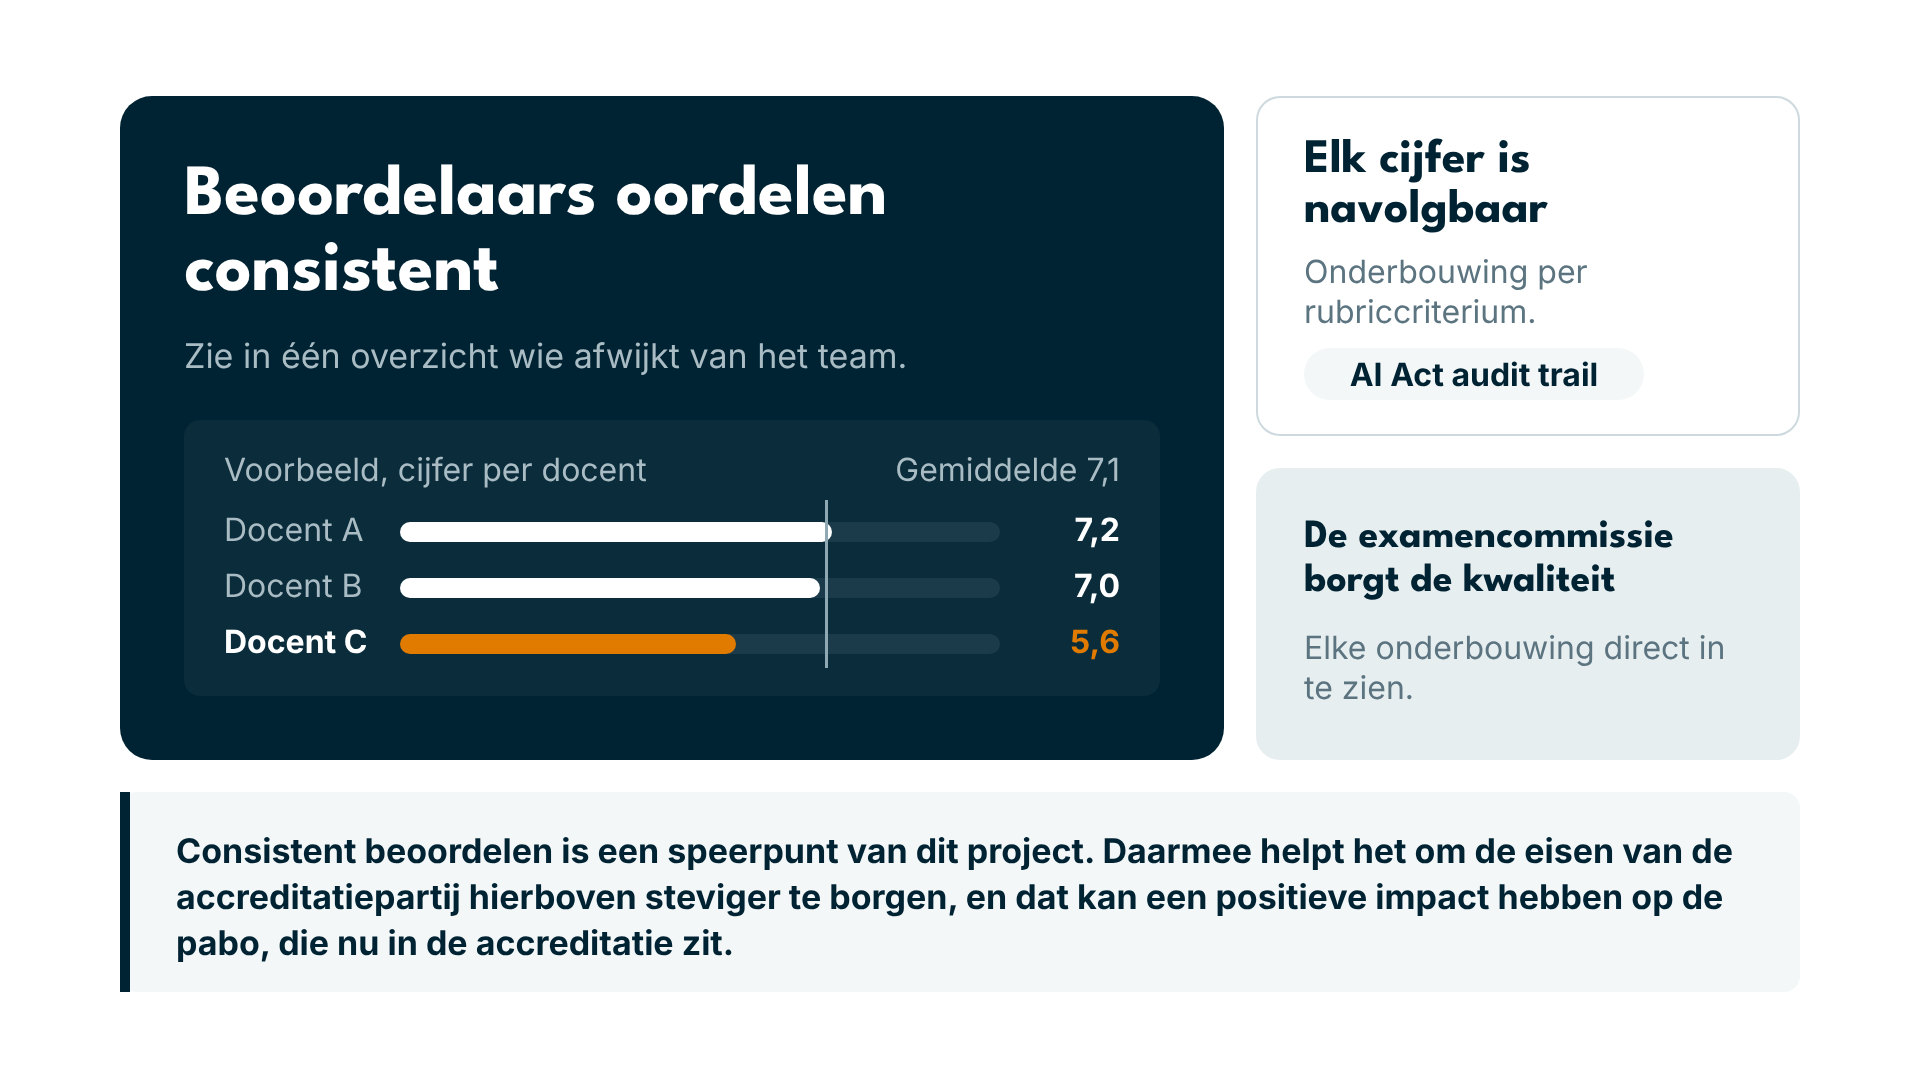
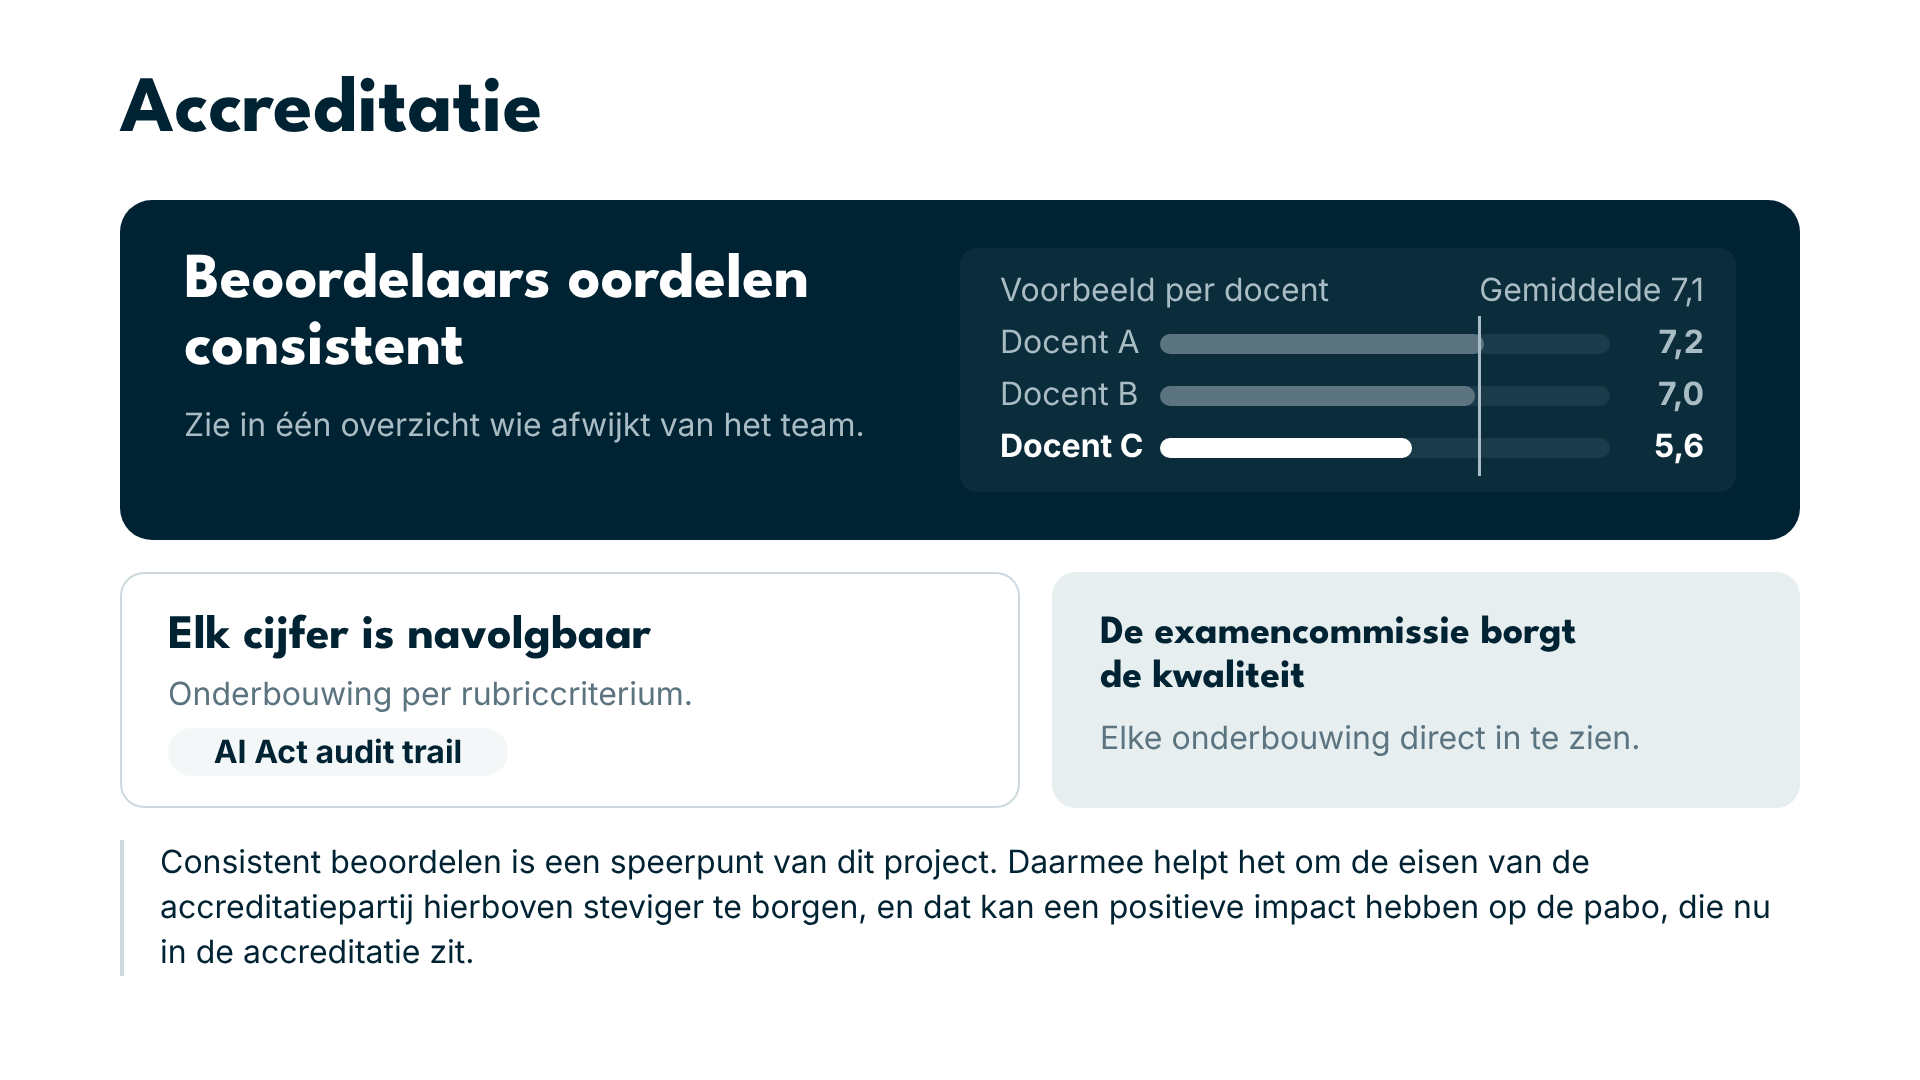
Slide accreditatie: titel, consistentie bovenaan, neutrale kleuren
Claude-Session: https://claude.ai/code/session_011t24oNqE5E2i7wh7JuX2xs

diff --git a/Design/Concepts/kwaliteit-cards/slide/preview/consistent-beoordelen.html b/Design/Concepts/kwaliteit-cards/slide/preview/consistent-beoordelen.html
@@ -1,4 +1,3 @@
-<!DOCTYPE html><html lang="nl"><head><meta charset="utf-8"><link href="https://fonts.googleapis.com/css2?family=League+Spartan:wght@400;600;700;800&family=Inter:wght@400;500;600;700&display=swap" rel="stylesheet"><style>*{margin:0;padding:0;box-sizing:border-box}html,body{background:#fff}.slide{position:relative;width:1920px;height:1080px;overflow:hidden;background:#fff}</style></head><body><div class="slide"><div style="position:absolute;left:120.0px;top:96.0px;width:1104.0px;height:664.0px;background:#002333;border-radius:32.0px"></div><div style="position:absolute;left:184.0px;top:160.0px;width:976.0px;height:160.0px;font-family:'League Spartan',sans-serif;font-size:72px;font-weight:700;color:#FFFFFF;text-align:left;line-height:1.05;white-space:pre-line">Beoordelaars oordelen
-consistent</div><div style="position:absolute;left:184.0px;top:336.0px;width:976.0px;height:44.0px;font-family:'Inter',sans-serif;font-size:34px;font-weight:400;color:#A9BCC4;text-align:left;line-height:1.15;white-space:pre-line">Zie in één overzicht wie afwijkt van het team.</div><div style="position:absolute;left:184.0px;top:420.0px;width:976.0px;height:276.0px;background:#0A2C3B;border-radius:16.0px"></div><div style="position:absolute;left:224.0px;top:452.0px;width:560.0px;height:40.0px;font-family:'Inter',sans-serif;font-size:32px;font-weight:400;color:#A9BCC4;text-align:left;line-height:1.15;white-space:pre-line">Voorbeeld, cijfer per docent</div><div style="position:absolute;left:840.0px;top:452.0px;width:280.0px;height:40.0px;font-family:'Inter',sans-serif;font-size:32px;font-weight:400;color:#A9BCC4;text-align:right;line-height:1.15;white-space:pre-line">Gemiddelde 7,1</div><div style="position:absolute;left:224.0px;top:512.0px;width:160.0px;height:40.0px;font-family:'Inter',sans-serif;font-size:32px;font-weight:400;color:#A9BCC4;text-align:left;line-height:1.15;white-space:pre-line">Docent A</div><div style="position:absolute;left:400.0px;top:522.0px;width:600.0px;height:20.0px;background:#1B3B4A;border-radius:10.0px"></div><div style="position:absolute;left:400.0px;top:522.0px;width:432.0px;height:20.0px;background:#FFFFFF;border-radius:10.0px"></div><div style="position:absolute;left:1030.0px;top:512.0px;width:90.0px;height:40.0px;font-family:'Inter',sans-serif;font-size:32px;font-weight:700;color:#FFFFFF;text-align:right;line-height:1.15;white-space:pre-line">7,2</div><div style="position:absolute;left:224.0px;top:568.0px;width:160.0px;height:40.0px;font-family:'Inter',sans-serif;font-size:32px;font-weight:400;color:#A9BCC4;text-align:left;line-height:1.15;white-space:pre-line">Docent B</div><div style="position:absolute;left:400.0px;top:578.0px;width:600.0px;height:20.0px;background:#1B3B4A;border-radius:10.0px"></div><div style="position:absolute;left:400.0px;top:578.0px;width:420.0px;height:20.0px;background:#FFFFFF;border-radius:10.0px"></div><div style="position:absolute;left:1030.0px;top:568.0px;width:90.0px;height:40.0px;font-family:'Inter',sans-serif;font-size:32px;font-weight:700;color:#FFFFFF;text-align:right;line-height:1.15;white-space:pre-line">7,0</div><div style="position:absolute;left:224.0px;top:624.0px;width:160.0px;height:40.0px;font-family:'Inter',sans-serif;font-size:32px;font-weight:700;color:#FFFFFF;text-align:left;line-height:1.15;white-space:pre-line">Docent C</div><div style="position:absolute;left:400.0px;top:634.0px;width:600.0px;height:20.0px;background:#1B3B4A;border-radius:10.0px"></div><div style="position:absolute;left:400.0px;top:634.0px;width:336.0px;height:20.0px;background:#E07B00;border-radius:10.0px"></div><div style="position:absolute;left:1030.0px;top:624.0px;width:90.0px;height:40.0px;font-family:'Inter',sans-serif;font-size:32px;font-weight:700;color:#E07B00;text-align:right;line-height:1.15;white-space:pre-line">5,6</div><div style="position:absolute;left:824.5px;top:500.0px;width:3.0px;height:168.0px;background:#8FA9B4;border-radius:0.0px"></div><div style="position:absolute;left:1256.0px;top:96.0px;width:544.0px;height:340.0px;background:#CDD9DE;border-radius:24.0px"></div><div style="position:absolute;left:1258.0px;top:98.0px;width:540.0px;height:336.0px;background:#FFFFFF;border-radius:22.0px"></div><div style="position:absolute;left:1304.0px;top:136.0px;width:448.0px;height:100.0px;font-family:'League Spartan',sans-serif;font-size:48px;font-weight:700;color:#002333;text-align:left;line-height:1.05;white-space:pre-line">Elk cijfer is
-navolgbaar</div><div style="position:absolute;left:1304.0px;top:252.0px;width:448.0px;height:80.0px;font-family:'Inter',sans-serif;font-size:32px;font-weight:400;color:#5B7480;text-align:left;line-height:1.25;white-space:pre-line">Onderbouwing per rubriccriterium.</div><div style="position:absolute;left:1304.0px;top:348.0px;width:340.0px;height:52.0px;background:#F3F7F8;border-radius:26.0px"></div><div style="position:absolute;left:1304.0px;top:357.0px;width:340.0px;height:36.0px;font-family:'Inter',sans-serif;font-size:32px;font-weight:700;color:#002333;text-align:center;line-height:1.15;white-space:pre-line">AI Act audit trail</div><div style="position:absolute;left:1256.0px;top:468.0px;width:544.0px;height:292.0px;background:#E7EEF0;border-radius:24.0px"></div><div style="position:absolute;left:1304.0px;top:516.0px;width:448.0px;height:92.0px;font-family:'League Spartan',sans-serif;font-size:40px;font-weight:700;color:#002333;text-align:left;line-height:1.1;white-space:pre-line">De examencommissie
-borgt de kwaliteit</div><div style="position:absolute;left:1304.0px;top:628.0px;width:448.0px;height:80.0px;font-family:'Inter',sans-serif;font-size:32px;font-weight:400;color:#5B7480;text-align:left;line-height:1.25;white-space:pre-line">Elke onderbouwing direct in te zien.</div><div style="position:absolute;left:120.0px;top:792.0px;width:1680.0px;height:200.0px;background:#F3F7F8;border-radius:16.0px"></div><div style="position:absolute;left:120.0px;top:792.0px;width:10.0px;height:200.0px;background:#002333;border-radius:0.0px"></div><div style="position:absolute;left:176.0px;top:828.0px;width:1580.0px;height:140.0px;font-family:'Inter',sans-serif;font-size:34px;font-weight:700;color:#002333;text-align:left;line-height:1.35;white-space:pre-line">Consistent beoordelen is een speerpunt van dit project. Daarmee helpt het om de eisen van de accreditatiepartij hierboven steviger te borgen, en dat kan een positieve impact hebben op de pabo, die nu in de accreditatie zit.</div></div></body></html>
+<!DOCTYPE html><html lang="nl"><head><meta charset="utf-8"><link href="https://fonts.googleapis.com/css2?family=League+Spartan:wght@400;600;700;800&family=Inter:wght@400;500;600;700&display=swap" rel="stylesheet"><style>*{margin:0;padding:0;box-sizing:border-box}html,body{background:#fff}.slide{position:relative;width:1920px;height:1080px;overflow:hidden;background:#fff}</style></head><body><div class="slide"><div style="position:absolute;left:120.0px;top:72.0px;width:1680.0px;height:96.0px;font-family:'League Spartan',sans-serif;font-size:80px;font-weight:700;color:#002333;text-align:left;line-height:1.0;white-space:pre-line">Accreditatie</div><div style="position:absolute;left:120.0px;top:200.0px;width:1680.0px;height:340.0px;background:#002333;border-radius:32.0px"></div><div style="position:absolute;left:184.0px;top:248.0px;width:720.0px;height:140.0px;font-family:'League Spartan',sans-serif;font-size:64px;font-weight:700;color:#FFFFFF;text-align:left;line-height:1.05;white-space:pre-line">Beoordelaars oordelen
+consistent</div><div style="position:absolute;left:184.0px;top:404.0px;width:700.0px;height:84.0px;font-family:'Inter',sans-serif;font-size:32px;font-weight:400;color:#A9BCC4;text-align:left;line-height:1.3;white-space:pre-line">Zie in één overzicht wie afwijkt van het team.</div><div style="position:absolute;left:960.0px;top:248.0px;width:776.0px;height:244.0px;background:#0A2C3B;border-radius:16.0px"></div><div style="position:absolute;left:1000.0px;top:272.0px;width:420.0px;height:40.0px;font-family:'Inter',sans-serif;font-size:32px;font-weight:400;color:#A9BCC4;text-align:left;line-height:1.15;white-space:pre-line">Voorbeeld per docent</div><div style="position:absolute;left:1424.0px;top:272.0px;width:280.0px;height:40.0px;font-family:'Inter',sans-serif;font-size:32px;font-weight:400;color:#A9BCC4;text-align:right;line-height:1.15;white-space:pre-line">Gemiddelde 7,1</div><div style="position:absolute;left:1000.0px;top:324.0px;width:150.0px;height:40.0px;font-family:'Inter',sans-serif;font-size:32px;font-weight:400;color:#A9BCC4;text-align:left;line-height:1.15;white-space:pre-line">Docent A</div><div style="position:absolute;left:1160.0px;top:334.0px;width:450.0px;height:20.0px;background:#1B3B4A;border-radius:10.0px"></div><div style="position:absolute;left:1160.0px;top:334.0px;width:324.0px;height:20.0px;background:#5B7480;border-radius:10.0px"></div><div style="position:absolute;left:1630.0px;top:324.0px;width:74.0px;height:40.0px;font-family:'Inter',sans-serif;font-size:32px;font-weight:700;color:#A9BCC4;text-align:right;line-height:1.15;white-space:pre-line">7,2</div><div style="position:absolute;left:1000.0px;top:376.0px;width:150.0px;height:40.0px;font-family:'Inter',sans-serif;font-size:32px;font-weight:400;color:#A9BCC4;text-align:left;line-height:1.15;white-space:pre-line">Docent B</div><div style="position:absolute;left:1160.0px;top:386.0px;width:450.0px;height:20.0px;background:#1B3B4A;border-radius:10.0px"></div><div style="position:absolute;left:1160.0px;top:386.0px;width:315.0px;height:20.0px;background:#5B7480;border-radius:10.0px"></div><div style="position:absolute;left:1630.0px;top:376.0px;width:74.0px;height:40.0px;font-family:'Inter',sans-serif;font-size:32px;font-weight:700;color:#A9BCC4;text-align:right;line-height:1.15;white-space:pre-line">7,0</div><div style="position:absolute;left:1000.0px;top:428.0px;width:150.0px;height:40.0px;font-family:'Inter',sans-serif;font-size:32px;font-weight:700;color:#FFFFFF;text-align:left;line-height:1.15;white-space:pre-line">Docent C</div><div style="position:absolute;left:1160.0px;top:438.0px;width:450.0px;height:20.0px;background:#1B3B4A;border-radius:10.0px"></div><div style="position:absolute;left:1160.0px;top:438.0px;width:252.0px;height:20.0px;background:#FFFFFF;border-radius:10.0px"></div><div style="position:absolute;left:1630.0px;top:428.0px;width:74.0px;height:40.0px;font-family:'Inter',sans-serif;font-size:32px;font-weight:700;color:#FFFFFF;text-align:right;line-height:1.15;white-space:pre-line">5,6</div><div style="position:absolute;left:1478.0px;top:316.0px;width:3.0px;height:160.0px;background:#A9BCC4;border-radius:0.0px"></div><div style="position:absolute;left:120.0px;top:572.0px;width:900.0px;height:236.0px;background:#CDD9DE;border-radius:24.0px"></div><div style="position:absolute;left:122.0px;top:574.0px;width:896.0px;height:232.0px;background:#FFFFFF;border-radius:22.0px"></div><div style="position:absolute;left:168.0px;top:612.0px;width:800.0px;height:56.0px;font-family:'League Spartan',sans-serif;font-size:48px;font-weight:700;color:#002333;text-align:left;line-height:1.05;white-space:pre-line">Elk cijfer is navolgbaar</div><div style="position:absolute;left:168.0px;top:676.0px;width:800.0px;height:40.0px;font-family:'Inter',sans-serif;font-size:32px;font-weight:400;color:#5B7480;text-align:left;line-height:1.15;white-space:pre-line">Onderbouwing per rubriccriterium.</div><div style="position:absolute;left:168.0px;top:728.0px;width:340.0px;height:48.0px;background:#F3F7F8;border-radius:24.0px"></div><div style="position:absolute;left:168.0px;top:734.0px;width:340.0px;height:36.0px;font-family:'Inter',sans-serif;font-size:32px;font-weight:700;color:#002333;text-align:center;line-height:1.15;white-space:pre-line">AI Act audit trail</div><div style="position:absolute;left:1052.0px;top:572.0px;width:748.0px;height:236.0px;background:#E7EEF0;border-radius:24.0px"></div><div style="position:absolute;left:1100.0px;top:612.0px;width:652.0px;height:92.0px;font-family:'League Spartan',sans-serif;font-size:40px;font-weight:700;color:#002333;text-align:left;line-height:1.1;white-space:pre-line">De examencommissie borgt
+de kwaliteit</div><div style="position:absolute;left:1100.0px;top:720.0px;width:652.0px;height:40.0px;font-family:'Inter',sans-serif;font-size:32px;font-weight:400;color:#5B7480;text-align:left;line-height:1.15;white-space:pre-line">Elke onderbouwing direct in te zien.</div><div style="position:absolute;left:120.0px;top:840.0px;width:4.0px;height:136.0px;background:#CDD9DE;border-radius:0.0px"></div><div style="position:absolute;left:160.0px;top:840.0px;width:1640.0px;height:136.0px;font-family:'Inter',sans-serif;font-size:32px;font-weight:400;color:#002333;text-align:left;line-height:1.4;white-space:pre-line">Consistent beoordelen is een speerpunt van dit project. Daarmee helpt het om de eisen van de accreditatiepartij hierboven steviger te borgen, en dat kan een positieve impact hebben op de pabo, die nu in de accreditatie zit.</div></div></body></html>

diff --git a/Design/Concepts/kwaliteit-cards/slide/build.py b/Design/Concepts/kwaliteit-cards/slide/build.py
@@ -1,47 +1,49 @@
 """Slide: consistent beoordelen. Bron voor preview en bewerkbare pptx."""
 import sys
 sys.path.insert(0, '/home/user/Claude/.claude/skills/pitch-deck')
-from deckbuild import rect, text, render_html, render_pptx, NAVY, AMBER, INK50, INK100, INK200, INK500, WHITE, HEAD, BODY
+from deckbuild import rect, text, render_html, render_pptx, NAVY, INK50, INK100, INK200, INK500, WHITE, HEAD
 
 MUTED_INV, PANEL, TRACK = 'A9BCC4', '0A2C3B', '1B3B4A'
 els = []
 
-# 1. Belangrijkst: groot navy blok
-els += [rect(120, 96, 1104, 664, NAVY, r=32),
-        text(184, 160, 976, 160, 'Beoordelaars oordelen\nconsistent', font=HEAD, size=72, bold=True, color=WHITE, align='left', ls=1.05),
-        text(184, 336, 976, 44, 'Zie in één overzicht wie afwijkt van het team.', size=34, color=MUTED_INV, align='left'),
-        rect(184, 420, 976, 276, PANEL, r=16),
-        text(224, 452, 560, 40, 'Voorbeeld, cijfer per docent', size=32, color=MUTED_INV, align='left'),
-        text(840, 452, 280, 40, 'Gemiddelde 7,1', size=32, color=MUTED_INV, align='right')]
-TX, TW = 400, 600
+# Titel
+els += [text(120, 72, 1680, 96, 'Accreditatie', font=HEAD, size=80, bold=True, align='left', ls=1.0)]
+
+# 1. Belangrijkst: navy blok over de volle breedte, tekst links, voorbeeld rechts
+els += [rect(120, 200, 1680, 340, NAVY, r=32),
+        text(184, 248, 720, 140, 'Beoordelaars oordelen\nconsistent', font=HEAD, size=64, bold=True, color=WHITE, align='left', ls=1.05),
+        text(184, 404, 700, 84, 'Zie in één overzicht wie afwijkt van het team.', size=32, color=MUTED_INV, align='left', ls=1.3),
+        rect(960, 248, 776, 244, PANEL, r=16),
+        text(1000, 272, 420, 40, 'Voorbeeld per docent', size=32, color=MUTED_INV, align='left'),
+        text(1424, 272, 280, 40, 'Gemiddelde 7,1', size=32, color=MUTED_INV, align='right')]
+TX, TW = 1160, 450
 for i, (naam, cijfer, af) in enumerate([('Docent A', 7.2, False), ('Docent B', 7.0, False), ('Docent C', 5.6, True)]):
-    y = 512 + i * 56
-    els += [text(224, y, 160, 40, naam, size=32, bold=af, color=WHITE if af else MUTED_INV, align='left'),
+    y = 324 + i * 52
+    els += [text(1000, y, 150, 40, naam, size=32, bold=af, color=WHITE if af else MUTED_INV, align='left'),
             rect(TX, y + 10, TW, 20, TRACK, r=10),
-            rect(TX, y + 10, TW * cijfer / 10, 20, AMBER if af else WHITE, r=10),
-            text(1030, y, 90, 40, f'{cijfer:.1f}'.replace('.', ','), size=32, bold=True, color=AMBER if af else WHITE, align='right')]
-els += [rect(TX + TW * 0.71 - 1.5, 500, 3, 168, '8FA9B4')]
+            rect(TX, y + 10, TW * cijfer / 10, 20, WHITE if af else '5B7480', r=10),
+            text(1630, y, 74, 40, f'{cijfer:.1f}'.replace('.', ','), size=32, bold=True, color=WHITE if af else MUTED_INV, align='right')]
+els += [rect(TX + TW * 0.71 - 1.5, 316, 3, 160, MUTED_INV)]
 
-# 2. Tweede: wit met rand
-els += [rect(1256, 96, 544, 340, INK200, r=24),
-        rect(1258, 98, 540, 336, WHITE, r=22),
-        text(1304, 136, 448, 100, 'Elk cijfer is\nnavolgbaar', font=HEAD, size=48, bold=True, align='left', ls=1.05),
-        text(1304, 252, 448, 80, 'Onderbouwing per rubriccriterium.', size=32, color=INK500, align='left', ls=1.25),
-        rect(1304, 348, 340, 52, INK50, r=26),
-        text(1304, 357, 340, 36, 'AI Act audit trail', size=32, bold=True, align='center')]
+# 2. Tweede: wit met rand, breder dan de derde
+els += [rect(120, 572, 900, 236, INK200, r=24),
+        rect(122, 574, 896, 232, WHITE, r=22),
+        text(168, 612, 800, 56, 'Elk cijfer is navolgbaar', font=HEAD, size=48, bold=True, align='left', ls=1.05),
+        text(168, 676, 800, 40, 'Onderbouwing per rubriccriterium.', size=32, color=INK500, align='left'),
+        rect(168, 728, 340, 48, INK50, r=24),
+        text(168, 734, 340, 36, 'AI Act audit trail', size=32, bold=True, align='center')]
 
-# 3. Derde: getint vlak
-els += [rect(1256, 468, 544, 292, INK100, r=24),
-        text(1304, 516, 448, 92, 'De examencommissie\nborgt de kwaliteit', font=HEAD, size=40, bold=True, align='left', ls=1.1),
-        text(1304, 628, 448, 80, 'Elke onderbouwing direct in te zien.', size=32, color=INK500, align='left', ls=1.25)]
+# 3. Derde: getint vlak, kleinere kop
+els += [rect(1052, 572, 748, 236, INK100, r=24),
+        text(1100, 612, 652, 92, 'De examencommissie borgt\nde kwaliteit', font=HEAD, size=40, bold=True, align='left', ls=1.1),
+        text(1100, 720, 652, 40, 'Elke onderbouwing direct in te zien.', size=32, color=INK500, align='left')]
 
-# Callout onder de kaarten
-els += [rect(120, 792, 1680, 200, INK50, r=16),
-        rect(120, 792, 10, 200, NAVY),
-        text(176, 828, 1580, 140,
+# Aanvulling: geen vlak, regular gewicht, dunne balk. Ondergeschikt aan alle drie de kaarten.
+els += [rect(120, 840, 4, 136, INK200),
+        text(160, 840, 1640, 136,
              'Consistent beoordelen is een speerpunt van dit project. Daarmee helpt het om de eisen van de '
              'accreditatiepartij hierboven steviger te borgen, en dat kan een positieve impact hebben op de pabo, '
-             'die nu in de accreditatie zit.', size=34, bold=True, align='left', ls=1.35)]
+             'die nu in de accreditatie zit.', size=32, color=NAVY, align='left', ls=1.4)]
 
 render_html(els, 'preview/consistent-beoordelen.html')
 render_pptx([els], 'consistent-beoordelen-bewerkbaar.pptx')
